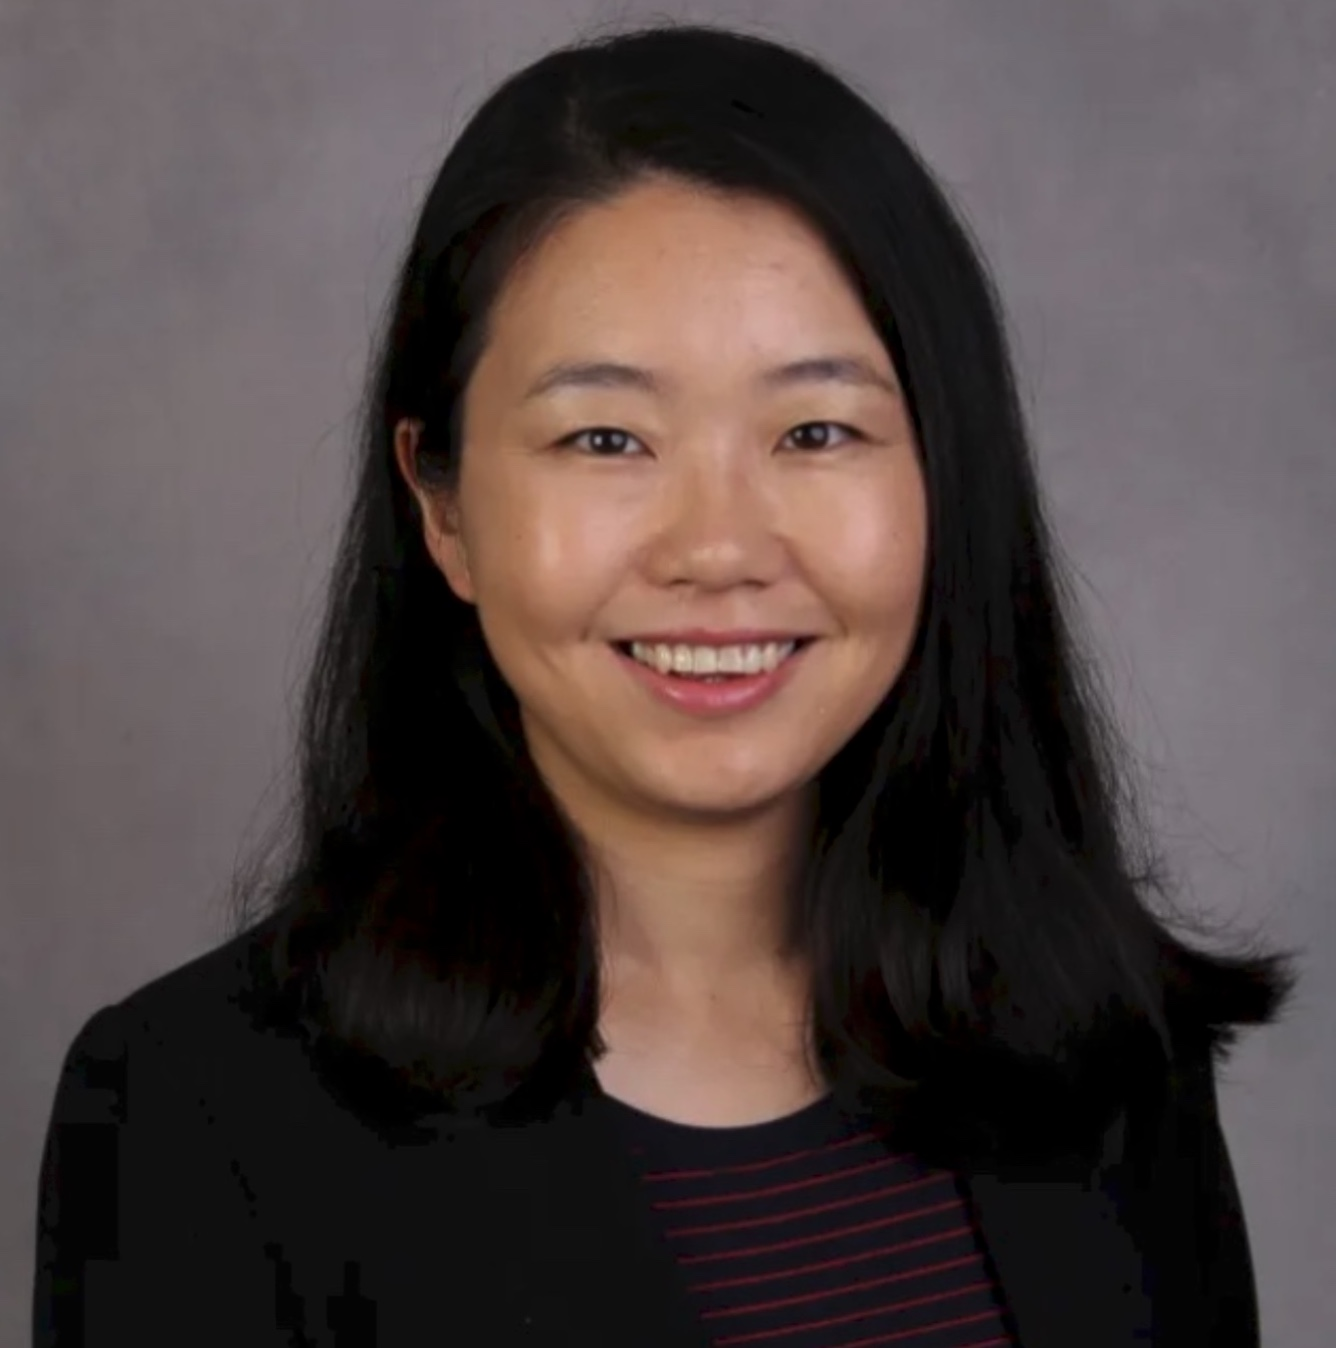
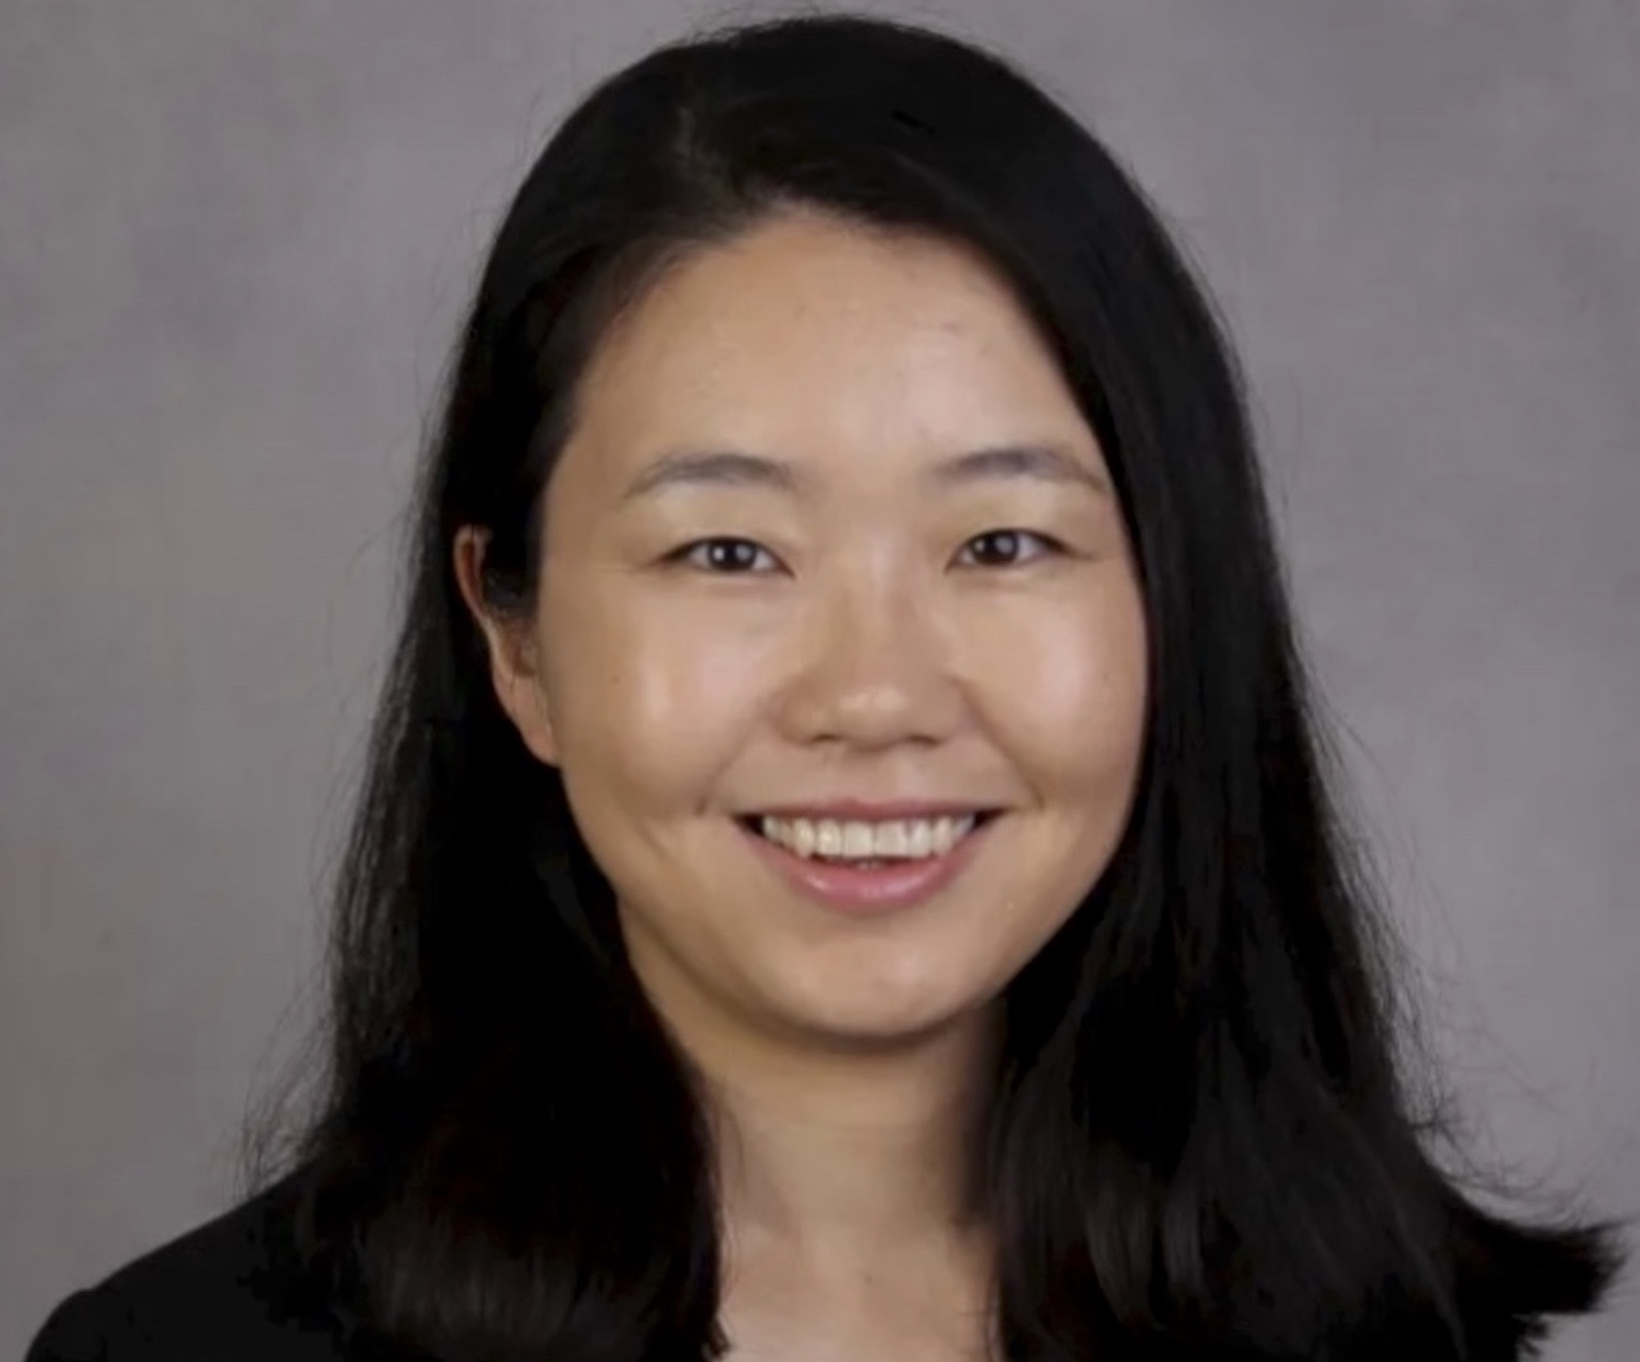
update

diff --git a/assets/css/style.scss b/assets/css/style.scss
@@ -71,5 +71,5 @@ abstract {
 
 .speaker-image {
   width: 225px;
-  height: 220px;
+  height: auto;
 }
